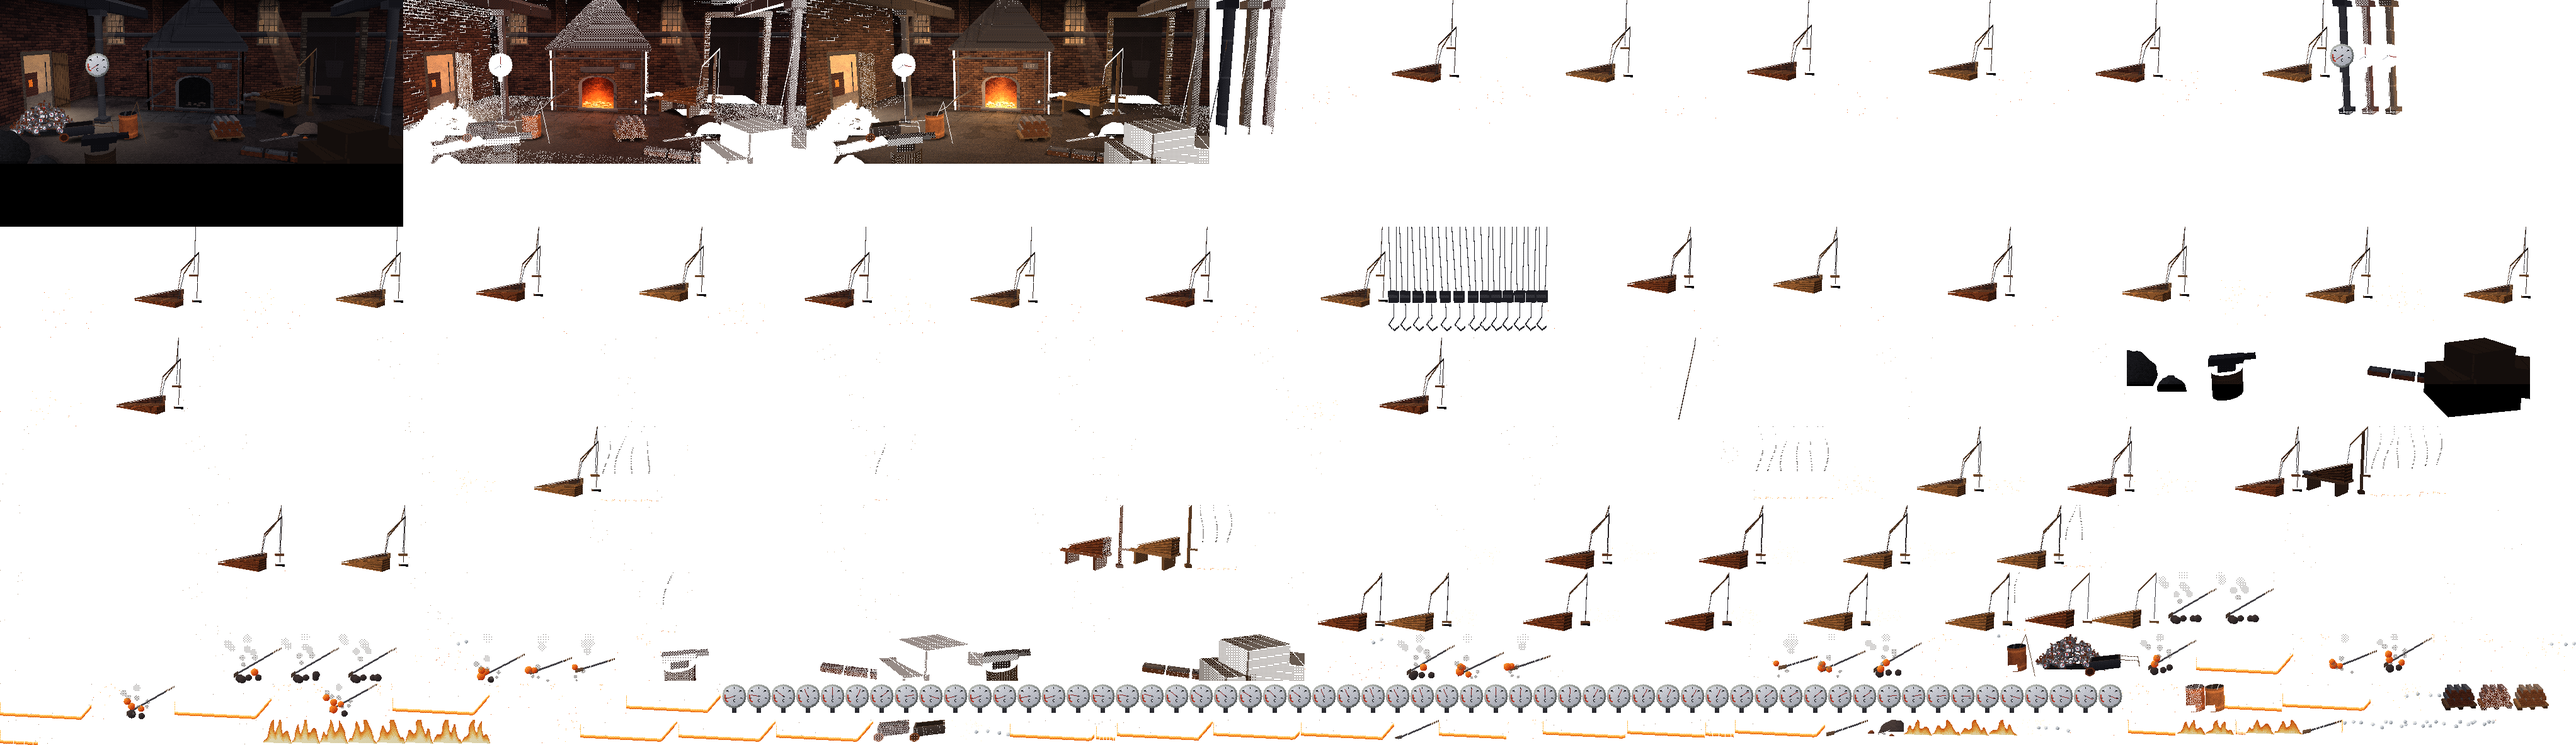
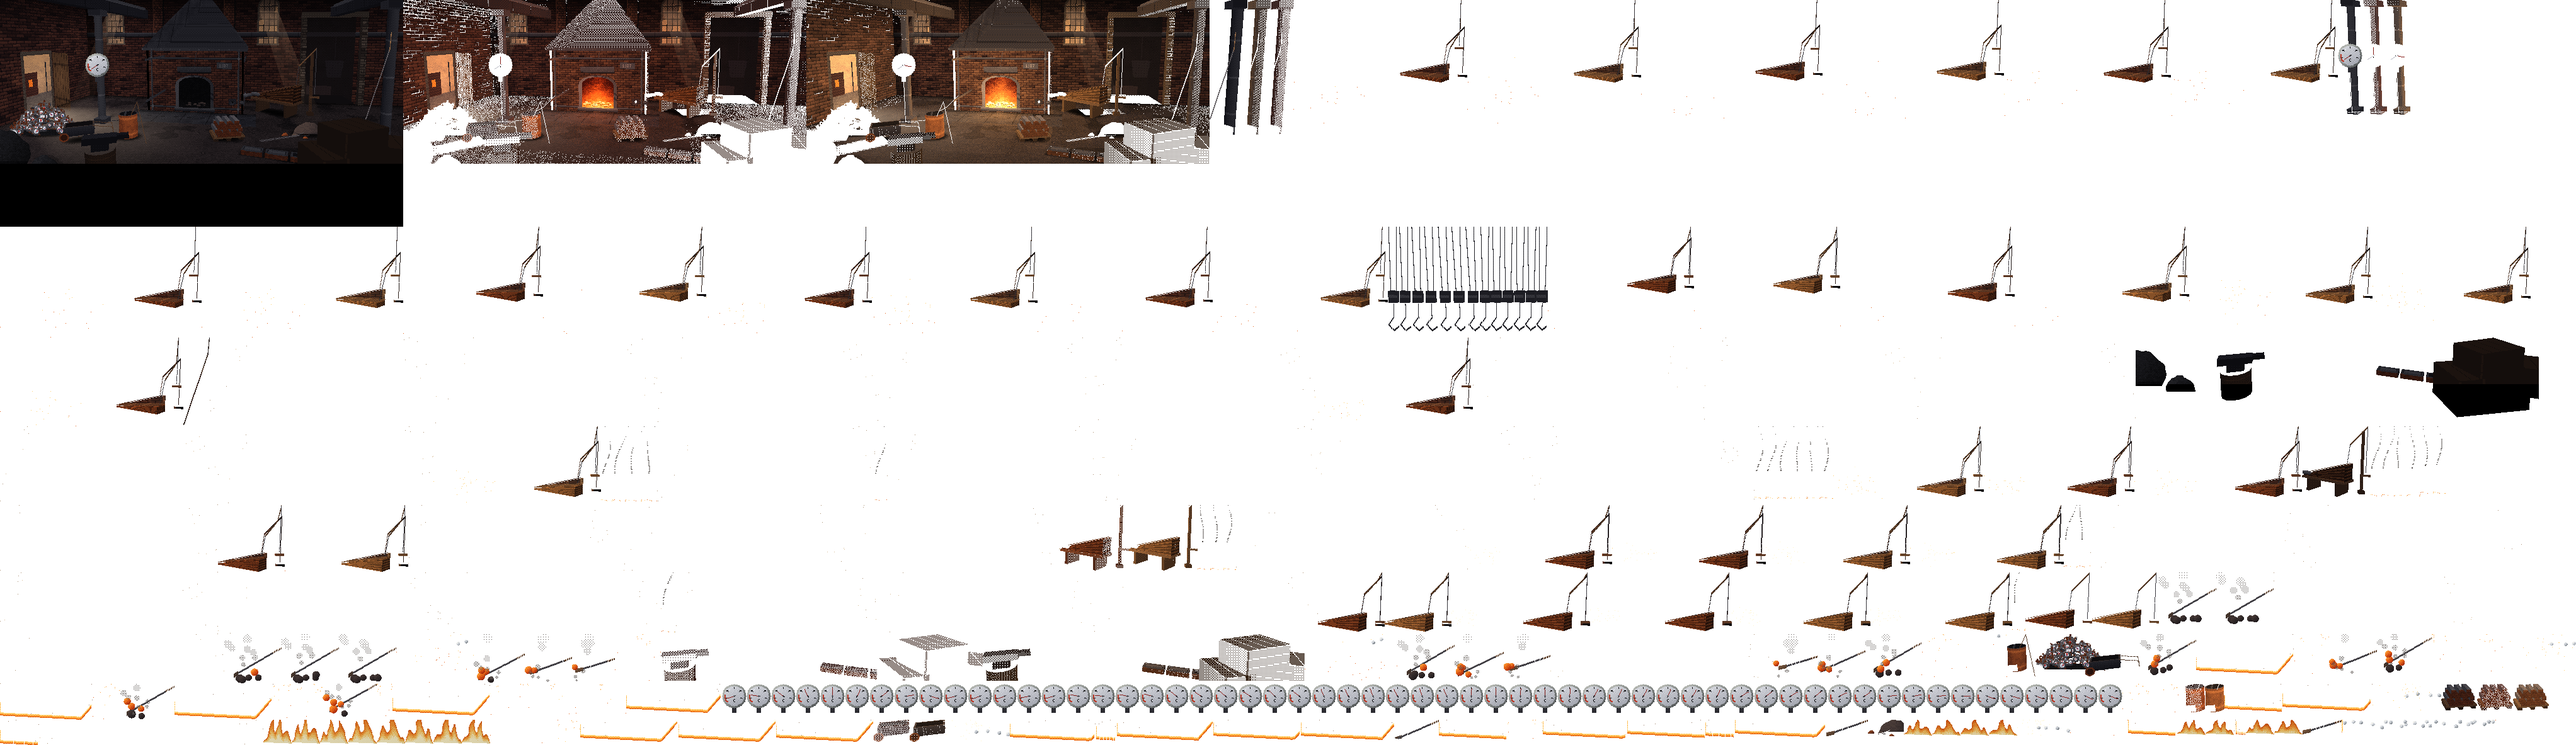
Aigua Verne: la llista de «Què hem de fer» sense parèntesis, l'Iri diu que amb en Nil hi parli la Vet, i el rascle de la foneria es veu (087, 128, 113)
- Comunicador: les línies de missió amb parèntesis, reescrites a la veu de la germana.
- Verdant: l'Iri, amb en Nil o al cobert, diu que hi parli la Vet (i el guió, igual).
- Foneria: el rascle de la columna, més gruixut, clar i més inclinat; les tenalles de terra tenen zona i descripció que apunten al rascle.

diff --git a/games/aigua-verne/adapters/benne/tools/hd640/rooms/fosa_forn.py b/games/aigua-verne/adapters/benne/tools/hd640/rooms/fosa_forn.py
@@ -427,15 +427,16 @@ def termometre(e, fire):
 
 def rascle(e):
     x, z = COL2
-    foot, top = (x - 34, 2, z - 24), (x - 6, 168, z - 10)
-    e.cable('rascle', [foot, top], IRONF, 3.8, gruix=2.4)
-    e.cable('rascle', [(top[0], top[1] - 2, top[2]), (top[0] + 1, top[1] + 12, top[2] + 1)], PLANKF, 4.0, gruix=3.4)
+    foot, top = (x - 56, 2, z - 30), (x - 6, 168, z - 10)
+    # (més clar que la columna: de fosc sobre fosc no es veia, i les tenalles de terra hi robaven l'ull)
+    e.cable('rascle', [foot, top], IRONF, 6.0, gruix=3.6)
+    e.cable('rascle', [(top[0], top[1] - 2, top[2]), (top[0] + 1, top[1] + 24, top[2] + 1)], PLANKF, 6.4, gruix=4.4)
     a = 0.5
     e.quad('rascle', (foot[0] - 15 * math.cos(a), 12, foot[2] + 15 * math.sin(a)),
            (foot[0] + 15 * math.cos(a), 12, foot[2] - 15 * math.sin(a)),
            (foot[0] + 15 * math.cos(a), 0.6, foot[2] - 15 * math.sin(a)),
            (foot[0] - 15 * math.cos(a), 0.6, foot[2] + 15 * math.sin(a)), ramp=IRONF, dues_cares=True,
-           lvl=lambda s, t, P: 3.0 - t * 0.08 + (fbm(s / 4, t / 4, 5) - 0.5))
+           lvl=lambda s, t, P: 5.4 - t * 0.08 + (fbm(s / 4, t / 4, 5) - 0.5))
 
 
 def metall(e):
@@ -1207,7 +1208,7 @@ FRONT = [
      'baseline': _vfront((COL1[0], COL1[1] - 13)), 'zIndex': 20, 'variants': _FOC,
      'props': [*TERMO]},
     {'id': 'davant_columna_dreta', 'mask': _amo({'columna_dreta', 'rascle'}),
-     'baseline': _vfront((COL2[0], COL2[1] - 13), (COL2[0] - 34, COL2[1] - 24)), 'zIndex': 20, 'variants': _FOC,
+     'baseline': _vfront((COL2[0], COL2[1] - 13), (COL2[0] - 56, COL2[1] - 30)), 'zIndex': 20, 'variants': _FOC,
      'props': ['rascle_fora']},
     {'id': 'davant_metall', 'mask': _amo({'metall'}),
      'baseline': _vfront((METALL[0], METALL[1] - 10), (CARRET[0] + 30, CARRET[1] - 30)), 'zIndex': 20, 'variants': _FOC},
@@ -1216,6 +1217,8 @@ FRONT = [
 
 _DIAL = CAM.projecta((COL1[0], DIAL_Y, COL1[1] - 12))
 _DR = 15 * 1.4 * CAM.escala((COL1[0], DIAL_Y, COL1[1] - 12))
+
+_TEN = _local((ESCORIA[0] - 46, ESCORIA[1] - 30), 0.5)    # les tenalles de `brossa`
 
 GEOMETRIA = {
     'things': {
@@ -1232,7 +1235,10 @@ GEOMETRIA = {
                   'walk': _p(*_local(MANXA[:2], MANXA[2])(MANXA[3] + 40, 0, -40)[::2])},
         'metall': {'rect': _rect_mon((METALL[0] - 70, 60, METALL[1]), (CARRET[0] + 40, 0, CARRET[1] - 40)),
                    'walk': _p(METALL[0] + 60, METALL[1] - 70)},
-        'rascle': {'rect': _rect_mon((COL2[0] - 50, 180, COL2[1] - 24), (COL2[0] + 2, 0, COL2[1] - 24)),
+        # Les tenalles estirades a terra, al costat de l'escòria (es veuen més que el rascle: que diguin alguna cosa).
+        'tenalles': {'rect': _rect_mon(_TEN(-52, 0, -6), _TEN(52, 0, 6), _TEN(-52, 10, -6), _TEN(52, 10, 6)),
+                     'walk': _p(*_TEN(-10, 0, -40)[::2])},
+        'rascle': {'rect': _rect_mon((COL2[0] - 72, 196, COL2[1] - 30), (COL2[0] + 2, 0, COL2[1] - 30)),
                    'walk': _p(COL2[0] - 40, COL2[1] - 70)},
         'termometre': {'rect': (round(_DIAL[0] - _DR - 2), round(_DIAL[1] - _DR - 2), round(_DIAL[0] + _DR + 2),
                                 round(_DIAL[1] + _DR + 2)),

diff --git a/games/aigua-verne/guio/guio.md b/games/aigua-verne/guio/guio.md
@@ -565,8 +565,8 @@ entra ningú que no sigui ric o que no treballi per a ell. Busqueu en Nil, el ja
 `verdant_cobert` (el cobert d'en Nil, amb la tomaquera amagada), `verdant_residencia` (el vestíbul amb en Fidel, el
 despatx del Magnat). La Vet i l'Iri hi baixen per separat (els veïns de Verdant no saluden la gent amb granota).
 
-**Trencaclosques 5.1 — En Nil (Vet).** Amb en Nil hi parla la Vet, i al cobert hi entra ella. IRI: «Avui faig
-d'inversora. En Nil no es fia de les jaquetes de vol.» En Nil parla amb les flors. «Aquestes no necessiten aigua. Són de plàstic.
+**Trencaclosques 5.1 — En Nil (Vet).** Amb en Nil hi parla la Vet, i al cobert hi entra ella. IRI: «En Nil no es
+fia de les jaquetes de vol. Amb ell, millor que hi parli la Vet.» En Nil parla amb les flors. «Aquestes no necessiten aigua. Són de plàstic.
 Per això duren.» Cada dijous puja al palau amb la llançadora dels jardiners i hi pot portar dos ajudants. «El Magnat fa
 totes les festes en dijous. Vol la pols acabada de treure.» (Així la subhasta cau en dijous, i no és casualitat.) No
 s'hi juga la feina per dues desconegudes.
